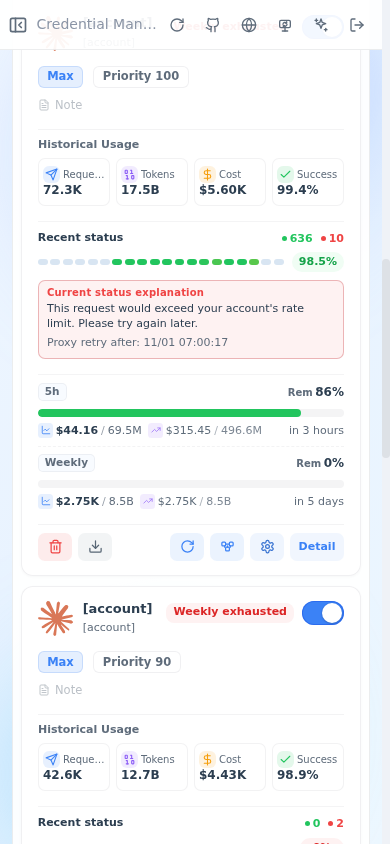
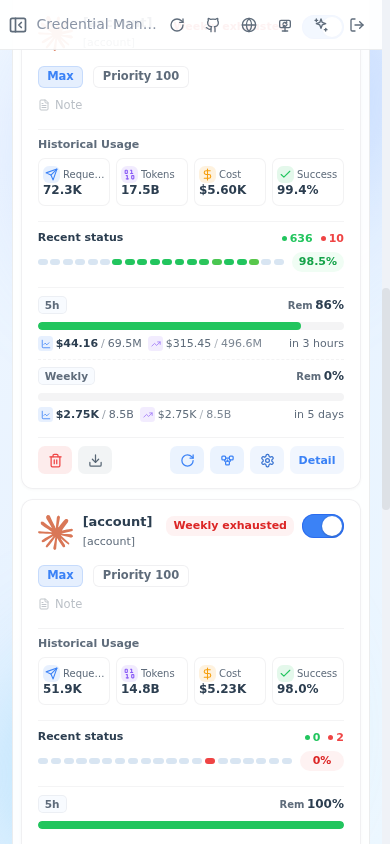
fix(accounts): use quota labels for explained provider limits

diff --git a/apps/web/src/features/accounts/AccountsPage.test.tsx b/apps/web/src/features/accounts/AccountsPage.test.tsx
@@ -10579,6 +10579,37 @@ describe('AccountsPage replacement flows', () => {
       .toBe(readText(cardMessage));
   });
 
+  it.each(['grid', 'table'])('uses the weekly exhausted label in %s view and keeps provider details in the drawer', async (view) => {
+    const message = 'The usage limit has been reached';
+    const file = {
+      ...makeCodexFile('weekly.json', 'auth-weekly', 'weekly@example.com'),
+      status_message: JSON.stringify({ error: { type: 'usage_limit_reached', message } }),
+      unavailable: true,
+      next_retry_after: '2026-11-02T06:19:29Z',
+    } as AuthFileItem;
+    mocks.files = [file];
+    mocks.quotaState.codexQuota = buildCredentialScopedQuotaRecord(file, {
+      status: 'success',
+      windows: [makeCodexQuotaWindow({ id: 'weekly', usedPercent: 100, limitWindowSeconds: 604800 })],
+    });
+    const renderer = await renderAccountsPage();
+    await flushPromises();
+    await act(async () => {
+      renderer.root.findByProps({ 'aria-label': `accounts.view_mode_${view}` }).props.onClick();
+    });
+    await flushPromises();
+    const card = findAccountCardByKey(renderer, getAuthFileSelectionKey(file));
+    expect(readText(card)).toContain('accounts.health_weekly_exhausted');
+    expect(card.findAllByProps({ 'data-overview-recent-status-message': 'true' })).toHaveLength(0);
+    await act(async () => {
+      findDetailButtonByName(renderer, file.name).props.onClick();
+    });
+    await flushPromises();
+    const overview = renderer.root.findByProps({ 'data-overview-section': 'recent-status' });
+    expect(readText(overview)).toContain(message);
+    expect(overview.findByType('time').props.dateTime).toBe('2026-11-02T06:19:29.000Z');
+  });
+
   it('keeps the inference quota failure after manually refreshing Codex quota', async () => {
     const message = 'The usage limit has been reached';
     const file = {

diff --git a/apps/web/src/features/accounts/model/accountDetailViewModel.ts b/apps/web/src/features/accounts/model/accountDetailViewModel.ts
@@ -265,6 +265,7 @@ export interface AccountDetailOverviewRecentStatus {
   successRate: number | null;
   recentRequests: RecentRequestBucket[];
   statusMessage: string;
+  listStatusMessage: string;
   retryAtMs: number | null;
   quotaError: string | null;
 }
@@ -1183,7 +1184,7 @@ const buildOverviewActivity = (
 
 export const buildOverviewRecentStatus = (
   row: AccountRow,
-  _decision?: AccountDetailOverviewDecision | null,
+  decision?: Pick<AccountDetailOverviewDecision, 'status'> | null,
   requestEvidence?: ReturnType<typeof resolveAccountRequestHealthEvidence>
 ): AccountDetailOverviewRecentStatus => {
   const recentRequests = row.usage.recentRequests;
@@ -1199,13 +1200,19 @@ export const buildOverviewRecentStatus = (
     row.quota.status === 'error' &&
     (classifyAccountQuotaRefreshEvidence(row) !== 'credential_failure' ||
       isAccountQuotaRefreshProblemCurrent(row, requestEvidence));
+  const statusMessage = hasProblemStatusMessage ? getProviderErrorMessage(row.statusMessage) : '';
+  const quotaLabelExplainsStatus =
+    credentialStatusKind === 'quota' &&
+    decision != null &&
+    getOverviewHealthLimitKind(decision.status) !== null;
 
   return {
     success: totals.success,
     failure: totals.failure,
     successRate: total > 0 ? (totals.success / total) * 100 : null,
     recentRequests,
-    statusMessage: hasProblemStatusMessage ? getProviderErrorMessage(row.statusMessage) : '',
+    statusMessage,
+    listStatusMessage: quotaLabelExplainsStatus ? '' : statusMessage,
     retryAtMs:
       hasProblemStatusMessage && row.raw.unavailable === true
         ? readAuthFileNextRetryAtMs(row.raw)

diff --git a/apps/web/src/features/accounts/model/accountDetailViewModel.test.ts b/apps/web/src/features/accounts/model/accountDetailViewModel.test.ts
@@ -11,6 +11,7 @@ import type {
 import type { AccountRow } from './accountRows';
 import {
   buildAccountDetailViewModel,
+  buildOverviewRecentStatus,
   type AccountDetailQuotaWindowInput,
 } from './accountDetailViewModel';
 import { accountWindowUsageRequestKey } from './accountWindowUsageRows';
@@ -2627,6 +2628,18 @@ describe('accountDetailViewModel', () => {
     expect(viewModel.overview.decision.basisLabelKey).toBe(
       'accounts.detail_overview_basis_credential_state'
     );
+  });
+
+  it('uses the existing quota label only for explained quota failures while preserving detail evidence', () => {
+    const row = makeRow({ statusMessage: 'The usage limit has been reached' });
+    const knownWeeklyLimit = buildOverviewRecentStatus(row, { status: 'weekly_exhausted' });
+    expect(knownWeeklyLimit.listStatusMessage).toBe('');
+    expect(knownWeeklyLimit.statusMessage).toBe(row.statusMessage);
+    expect(buildOverviewRecentStatus(row, { status: 'limited' }).listStatusMessage).toBe(row.statusMessage);
+    expect(buildOverviewRecentStatus(
+      { ...row, statusMessage: 'upstream unavailable' },
+      { status: 'weekly_exhausted' }
+    ).listStatusMessage).toBe('upstream unavailable');
   });
 
   it('aggregates recent status from request buckets and preserves the current status message', () => {

diff --git a/apps/web/src/features/accounts/AccountsPage.tsx b/apps/web/src/features/accounts/AccountsPage.tsx
@@ -9087,7 +9087,7 @@ export function AccountsPage() {
     );
     const overviewRecentStatus = buildOverviewRecentStatus(
       row,
-      null,
+      item.health,
       requestEvidence
     );
     const recentStatusData = statusBarDataFromRecentRequests(overviewRecentStatus.recentRequests);
@@ -9648,7 +9648,7 @@ export function AccountsPage() {
                     </div>
 
                     <AccountStatusMessage
-                      message={ctx.overviewRecentStatus.statusMessage}
+                      message={ctx.overviewRecentStatus.listStatusMessage}
                       retryAtMs={ctx.overviewRecentStatus.retryAtMs}
                       quotaError={ctx.overviewRecentStatus.quotaError}
                     />
@@ -9971,7 +9971,7 @@ export function AccountsPage() {
                     {renderRowActions(row, ctx.item.health.status === 'reauth')}
                   </div>
                   <AccountStatusMessage
-                    message={ctx.overviewRecentStatus.statusMessage}
+                    message={ctx.overviewRecentStatus.listStatusMessage}
                     retryAtMs={ctx.overviewRecentStatus.retryAtMs}
                     quotaError={ctx.overviewRecentStatus.quotaError}
                     className={styles.accountCardStatusMessage}

diff --git a/apps/web/src/features/accounts/components/AccountStatusMessage.tsx b/apps/web/src/features/accounts/components/AccountStatusMessage.tsx
@@ -46,7 +46,7 @@ export function AccountStatusMessage({
           {message}
         </p>
       ) : null}
-      {retryAtMs ? (
+      {message && retryAtMs ? (
         <time
           dateTime={new Date(retryAtMs).toISOString()}
           title={formatTimestampTitle(retryAtMs, i18n.language)}

diff --git a/docs/evidence/account-diagnostics/README.md b/docs/evidence/account-diagnostics/README.md
@@ -6,11 +6,15 @@ manual quota refresh, mobile sizing, and light/dark themes.
 
 - Before: table displayed zero of four current provider errors; cards displayed
   three, hiding the Codex usage-limit message.
-- After: table and cards display all four messages and proxy retry times, matching
-  the credential API. Quota-fetch failures remain visible with cached quota data.
+- Final display: table and cards identify all four weekly-exhausted accounts using
+  the existing badge and reset display, without duplicate provider error panels.
+  Full messages and retry times remain in details. Unknown limits, unrelated
+  provider errors, and quota-fetch failures remain visible in both layouts.
+- `verbose-table-dark.png` records the intermediate display that was simplified
+  after user feedback. `after-*` images show the final display.
 - Browser: no uncaught errors, failed panel HTTP requests, or mobile page overflow.
   Provider errors returned inside successful management responses are displayed.
-- Checks: 4,551 web tests, 266 repository tests, typecheck, build, artifact checks,
+- Checks: 4,554 web tests, 266 repository tests, typecheck, build, artifact checks,
   and lint passed. Lint retains seven existing warnings.
 - Live inference: GPT returned HTTP 200 and `PROXY_OK`. Claude returned HTTP 429
   because all three credentials were cooling down. The earliest reported retry

diff --git a/docs/development/account-status-evidence.md b/docs/development/account-status-evidence.md
@@ -9,7 +9,10 @@ boundaries retain their existing scope; quota refresh must only create a raw
 status boundary for an authentication failure.
 
 Table, card, and detail views consume `buildOverviewRecentStatus` and render the
-same `AccountStatusMessage`. Request history stays separate from current provider
+same `AccountStatusMessage`. Known five-hour, weekly, or monthly exhaustion uses
+the existing health label and reset display in the list. The full provider message
+and proxy retry time remain in account details. Unknown limits and unrelated
+errors remain visible in both list layouts. Request history stays separate from current provider
 status. Quota-lookup errors stay visible even when no quota windows are available
 or cached windows remain. Messages are readable provider errors, without truncation. An unavailable
 credential's valid `next_retry_after` is shown as the proxy's retry time; it is not a
